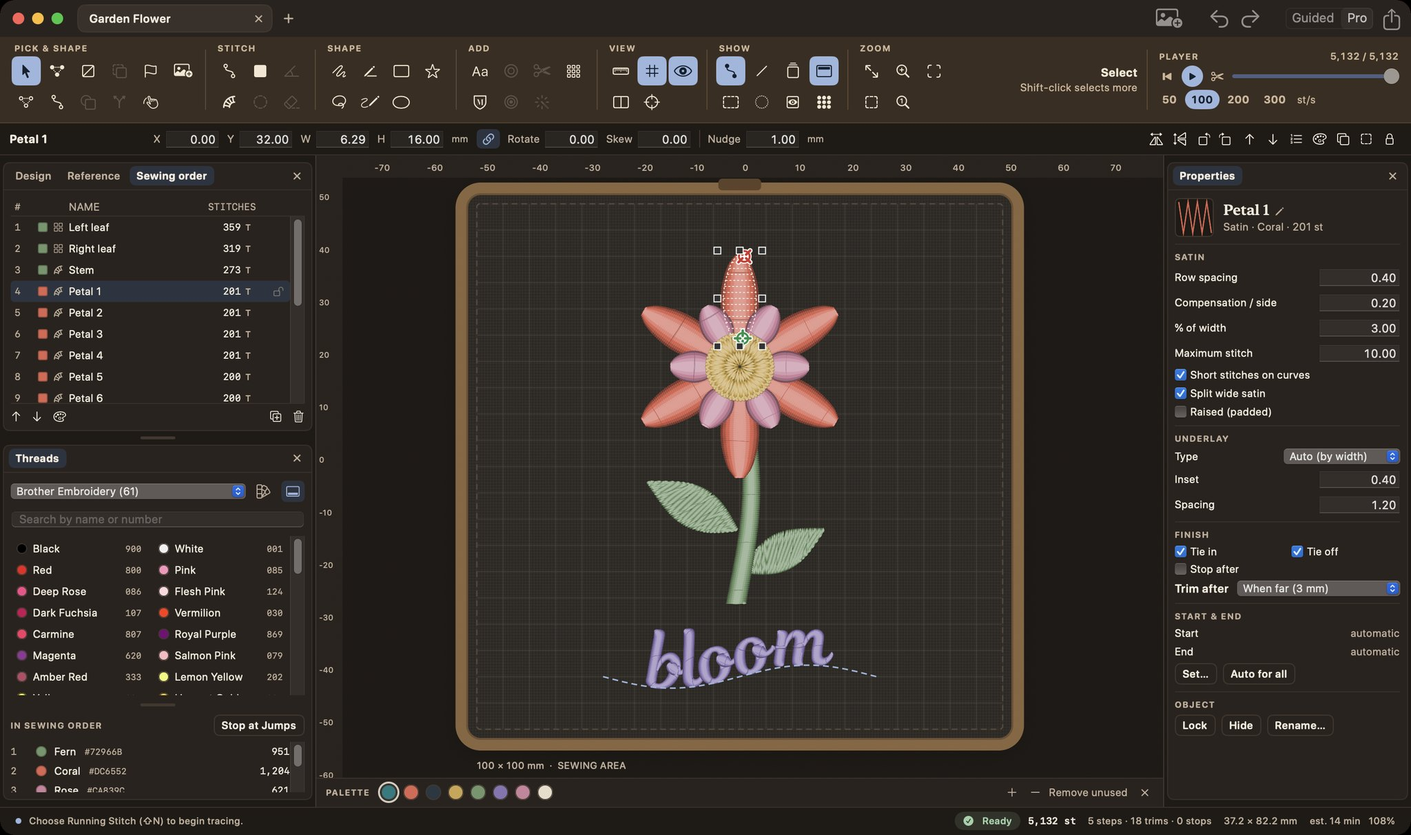
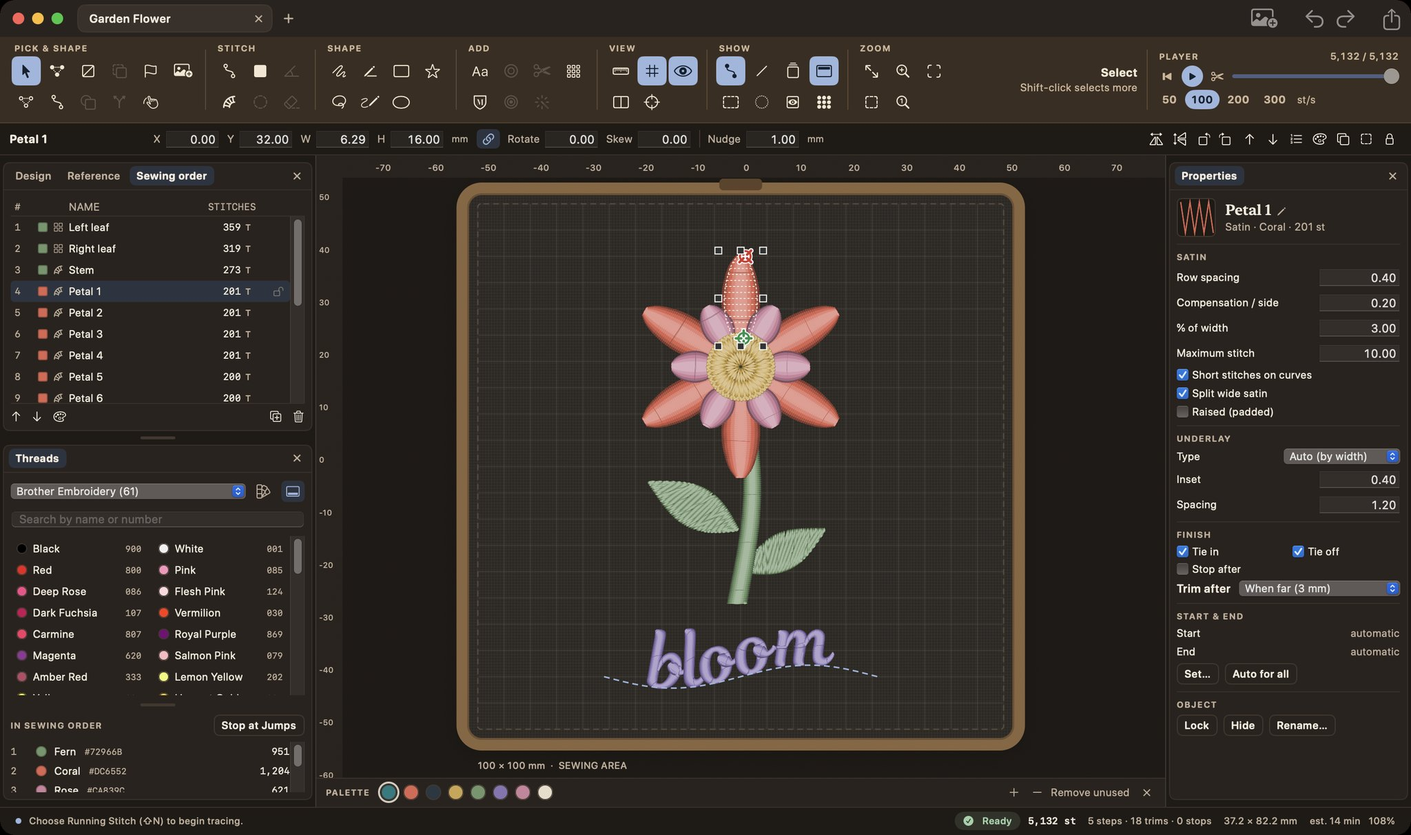
The README, user guide and website show the one layout (#125)
Guided screenshots, the website's Guided | Pro toggle and the guide's
Guided passages are gone. The Pro shots are retaken without the
toolbar switch; the README's top image is now the light Pro shot, and
the website's "Find your flow" section describes the single layout.

diff --git a/website/index.html b/website/index.html
@@ -40,10 +40,6 @@
       </div>
 
       <div class="preview-toolbar">
-        <div class="pill-group" role="group" aria-label="Main view">
-          <button type="button" class="pill-button is-active" data-mode="guided" aria-pressed="true" aria-controls="hero-comparison">Guided</button>
-          <button type="button" class="pill-button" data-mode="pro" aria-pressed="false" aria-controls="hero-comparison">Pro</button>
-        </div>
         <div class="pill-group" role="group" aria-label="Main appearance">
           <button type="button" class="pill-button is-active" data-theme="light" aria-pressed="true" aria-controls="hero-comparison">Light</button>
           <button type="button" class="pill-button" data-theme="dark" aria-pressed="false" aria-controls="hero-comparison">Dark</button>
@@ -52,15 +48,15 @@
       </div>
       <!-- The wooden hoop frame; its clamp at the top shows the current view. -->
       <div class="hoop">
-        <span class="hoop-clamp" data-preview-label>Guided · Light</span>
+        <span class="hoop-clamp" data-preview-label>Light</span>
         <div class="preview-surface" id="hero-comparison" data-preview-surface tabindex="-1" role="group" aria-label="App screenshot. With Inspect stitches enabled, move or tap to magnify; arrow keys move the lens.">
-          <img data-light src="assets/screenshot-guided-light.jpg" width="2048" height="1212" fetchpriority="high" alt="OpenHoop’s Guided view in light mode showing the Garden Flower design.">
-          <img data-dark hidden src="assets/screenshot-guided-dark.jpg" width="2048" height="1212" loading="lazy" alt="The same Garden Flower design in Guided view, dark mode.">
+          <img data-light src="assets/screenshot-pro-light.jpg" width="2048" height="1212" fetchpriority="high" alt="OpenHoop in light mode showing the Garden Flower design.">
+          <img data-dark hidden src="assets/screenshot-pro-dark.jpg" width="2048" height="1212" loading="lazy" alt="The same Garden Flower design in dark mode.">
           <div class="stitch-lens" data-lens hidden aria-hidden="true"><div data-lens-light></div><div data-lens-dark hidden></div><span>THREAD DETAIL</span></div>
         </div>
       </div>
-      <p class="preview-hint" data-hint aria-live="polite">Choose your view and lighting.</p>
-      <div class="image-caption"><span data-preview-caption aria-live="polite">Guided · Light mode · Garden Flower</span><a href="#stitch-preview">Watch it stitch <span aria-hidden="true">↓</span></a></div>
+      <p class="preview-hint" data-hint aria-live="polite">Choose your lighting.</p>
+      <div class="image-caption"><span data-preview-caption aria-live="polite">Light mode · Garden Flower</span><a href="#stitch-preview">Watch it stitch <span aria-hidden="true">↓</span></a></div>
     </section>
 
     <section class="band band-cream" id="how-it-works" aria-labelledby="process-title">
@@ -76,11 +72,11 @@
 
     <section class="band" id="workspace" aria-labelledby="workspace-title">
       <div class="wrap split">
-        <div class="section-heading"><p class="kicker">A workspace that grows with you</p><h2 id="workspace-title">Find your flow.</h2><p>Start with clearly labeled tools and helpful explanations. Switch to Pro when you want more controls close at hand.</p></div>
+        <div class="section-heading"><p class="kicker">A workspace that grows with you</p><h2 id="workspace-title">Find your flow.</h2><p>Every tool and setting sits in plain view, and resting the pointer on any of them explains what it does.</p></div>
         <div class="workspace-list">
-          <article><span class="dot dot-gold" aria-hidden="true">G</span><div><h3>Start with Guided.</h3><p>Clearly labeled tools and plain-English settings help you find your way from artwork to stitches.</p></div></article>
-          <article><span class="dot dot-tomato" aria-hidden="true">P</span><div><h3>Go deeper with Pro.</h3><p>Keep more controls close at hand as you shape curves, set stitch angles, and fine-tune individual needle points.</p></div></article>
-          <article><span class="dot dot-sage" aria-hidden="true">✦</span><div><h3>Make yourself at home.</h3><p>Arrange your panels, customize shortcuts, and switch between Guided and Pro whenever you like.</p></div></article>
+          <article><span class="dot dot-gold" aria-hidden="true">T</span><div><h3>Every tool in reach.</h3><p>Each tool has its own button, with its name and shortcut a hover away, so nothing hides in a menu.</p></div></article>
+          <article><span class="dot dot-tomato" aria-hidden="true">P</span><div><h3>Place it exactly.</h3><p>Type a position, size or angle in the precision bar, and watch stitch counts and sewing time update as you work.</p></div></article>
+          <article><span class="dot dot-sage" aria-hidden="true">✦</span><div><h3>Make yourself at home.</h3><p>Arrange your panels, put the tools across the top or down the side, and customize every shortcut.</p></div></article>
         </div>
       </div>
     </section>

diff --git a/website/script.js b/website/script.js
@@ -1,6 +1,6 @@
 const clamp = (value, min, max) => Math.min(max, Math.max(min, value));
 
-// Workspace and appearance toggles preserve each other’s selection.
+// The light/dark toggle and the stitch lens.
 document.querySelectorAll('[data-preview]').forEach(preview => {
   const surface = preview.querySelector('[data-preview-surface]');
   const light = preview.querySelector('[data-light]');
@@ -11,10 +11,8 @@ document.querySelectorAll('[data-preview]').forEach(preview => {
   const lensDark = preview.querySelector('[data-lens-dark]');
   const hint = preview.querySelector('[data-hint]');
   let theme = 'light';
-  let workspace = 'guided';
   let inspecting = false;
   let point = { x: .42, y: .35 };
-  let modeRequest = 0;
 
   function positionLens() {
     const rect = surface.getBoundingClientRect();
@@ -31,10 +29,9 @@ document.querySelectorAll('[data-preview]').forEach(preview => {
     }
   }
   function updateLabels() {
-    const view = workspace === 'pro' ? 'Pro' : 'Guided';
     const appearance = theme === 'dark' ? 'Dark' : 'Light';
-    preview.querySelector('[data-preview-label]').textContent = `${view} · ${appearance}`;
-    preview.querySelector('[data-preview-caption]').textContent = `${view} · ${appearance} mode · Garden Flower`;
+    preview.querySelector('[data-preview-label]').textContent = appearance;
+    preview.querySelector('[data-preview-caption]').textContent = `${appearance} mode · Garden Flower`;
   }
   function setTheme(value) {
     theme = value;
@@ -54,39 +51,11 @@ document.querySelectorAll('[data-preview]').forEach(preview => {
     surface.classList.toggle('is-inspecting', enabled);
     lens.hidden = !enabled;
     surface.tabIndex = enabled ? 0 : -1;
-    hint.textContent = enabled ? 'Move or tap to explore. Arrow keys move the lens.' : 'Choose your view and lighting.';
+    hint.textContent = enabled ? 'Move or tap to explore. Arrow keys move the lens.' : 'Choose your lighting.';
     positionLens();
-  }
-  async function setMode(mode, button) {
-    const request = ++modeRequest;
-    const urls = ['light', 'dark'].map(theme => `assets/screenshot-${mode}-${theme}.jpg`);
-    surface.setAttribute('aria-busy', 'true');
-    try {
-      // Decode the pair before swapping, so mismatched workspaces never flash.
-      await Promise.all(urls.map(src => { const img = new Image(); img.src = src; return img.decode(); }));
-      if (request !== modeRequest) return;
-      [light.src, dark.src] = urls;
-      lensLight.style.backgroundImage = `url("${urls[0]}")`;
-      lensDark.style.backgroundImage = `url("${urls[1]}")`;
-      const name = mode === 'pro' ? 'Pro' : 'Guided';
-      light.alt = `OpenHoop’s ${name} view in light mode showing the Garden Flower design.`;
-      dark.alt = `The same Garden Flower design in ${name} view, dark mode.`;
-      workspace = mode;
-      updateLabels();
-      preview.querySelectorAll('[data-mode]').forEach(option => {
-        option.classList.toggle('is-active', option === button);
-        option.setAttribute('aria-pressed', String(option === button));
-      });
-      positionLens();
-    } catch {
-      hint.textContent = 'That view could not load. Please try again.';
-    } finally {
-      if (request === modeRequest) surface.removeAttribute('aria-busy');
-    }
   }
   lensLight.style.backgroundImage = `url("${light.getAttribute('src')}")`;
   lensDark.style.backgroundImage = `url("${dark.getAttribute('src')}")`;
-  preview.querySelectorAll('[data-mode]').forEach(button => button.addEventListener('click', () => setMode(button.dataset.mode, button)));
   inspect.addEventListener('click', () => setInspect(!inspecting));
   preview.querySelectorAll('[data-theme]').forEach(button => button.addEventListener('click', () => setTheme(button.dataset.theme)));
   function interact(event) {

diff --git a/website/styles.css b/website/styles.css
@@ -127,7 +127,7 @@ h1 em { font-style: normal; color: var(--gold); }
 .hero-copy .actions { justify-content: center; margin-top: 36px; }
 .fine-print { margin-top: 20px; font-size: 15px; color: var(--muted); }
 
-/* Guided/Pro and Light/Dark pill toggles */
+/* Light/Dark pill toggle */
 .preview-toolbar { display: flex; flex-wrap: wrap; gap: 12px 16px; justify-content: center; align-items: center; margin: 64px 0 40px; }
 .pill-group { display: flex; gap: 4px; padding: 5px; background: var(--denim-light); border-radius: 999px; }
 .pill-button {

diff --git a/docs/USER-GUIDE.md b/docs/USER-GUIDE.md
@@ -11,14 +11,11 @@ Open `dist/OpenHoop.app` after building it. To look around first, choose **File 
 > OpenHoop runs on Apple Silicon Macs with macOS 14 or later, and its designs have been sewn on a Brother SE600. Every machine, fabric and stabilizer behaves a little differently, so test-sew a new design on scrap fabric first.
 
 **The window:**
-- **Tool strip** (under the toolbar): tools grouped as *Pick & shape*, *Stitch*, *Add* and *View*, each with its key. Some tools share a slot (Fill and Hole; Text, Satin border, Appliqué and Auto-digitize); click the slot's arrow to pick one. Tools that can't be used yet are dimmed.
+- **Tool strip** (under the toolbar): every tool as its own button on a walnut band, two rows across the top, in groups (*Pick & shape*, *Stitch*, *Shape*, *Add*, *View*, *Show*, *Zoom*). Rest the pointer on one for its name and key. Tools that can't be used yet are dimmed. **Settings › Tools & player › Tools** moves them to a rail down the left side instead.
+- **Precision bar** (under the tools): the selection's exact position, size, rotation and skew, the arrow keys' nudge distance, and one-click arrange buttons.
 - **Canvas:** the hoop with your design. Scroll to pan, pinch or Option-scroll to zoom, **⌥0** to fit the hoop. More ways to look: [Viewing and measuring](#viewing-and-measuring).
 - **Panels:** Sewing order, Properties, Design (fabric and hoop), Reference image and Threads. The stitch player sits at the right end of the tool strip.
 - **Status bar:** messages, and a **Ready to save** check that turns orange with a short reason when something needs fixing before export.
-
-**Guided and Pro views.** Same features, two layouts; switch with **⌥⌘P** or the **Guided | Pro** toggle in the toolbar. Pro shows every tool as its own button on a walnut band, two rows across the top; **Settings › Tools & player › Tools** moves them to a rail down the left side instead.
-- **Guided** (the default) shows the everyday settings with a plain-English line under each and folds the rest under **More settings**.
-- **Pro** shows everything at once: every tool in one row, a precision bar for exact position, size and rotation, compact Properties, a sewing-order table with stitch counts, and live stats in the status bar. Explanations become tooltips.
 
 **Not sure what something does?** Rest the pointer on any tool, button or setting: a tooltip says what it does, with its key.
 
@@ -64,7 +61,7 @@ Smooth, shiny columns for borders, outlines and lettering. Two ways to make one:
 - **Make it longer later:** select the column, choose **⇧A**, and click one of the two points at either end. Drawing picks up from there: click more pairs and press Return, and they join the same column (Esc leaves it as it was). Running lines work the same way with **⇧N**: click the first or last point.
 - **From a center line (⇧I):** draw a running line down the middle, set **Satin width** in Properties (0.8–10 mm), then press **⇧I** (or F6) or **Make satin column**. Sharp turns are rounded just enough for the satin to turn. Turns too tight for the width are explained and the line is left alone.
 
-Settings: **Row spacing**, **Compensation** per side (extra width because thread pulls the fabric in), **Compensation % of width** (More settings; in Pro, **% of width**), and **Maximum stitch**. The percentage adds a share of each stitch's own width on top, so wide parts of a satin get more: new satins start at 3%, so a 2 mm part gets 0.26 mm per side and a 6 mm part 0.38 mm. It's a starting value to tune after a test sew-out. Two helpers, on for new satins:
+Settings: **Row spacing**, **Compensation** per side (extra width because thread pulls the fabric in), **Compensation % of width** (**% of width** in Properties), and **Maximum stitch**. The percentage adds a share of each stitch's own width on top, so wide parts of a satin get more: new satins start at 3%, so a 2 mm part gets 0.26 mm per side and a 6 mm part 0.38 mm. It's a starting value to tune after a test sew-out. Two helpers, on for new satins:
 - **Short stitches on curves:** on the inside of a curve, every other stitch stops short so the thread doesn't pile up.
 - **Split wide satin:** stitches longer than the maximum are split into shorter, staggered ones instead of the column being refused. Maximum stitch can be as long as you like, but stitches over 12 mm get a warning: they can snag, and machine files split them all at the same place.
 - **Raised (padded):** lanes of padding stitches are sewn along the column first, so the satin stands up off the fabric for a 3D look. Best on columns 3 mm and wider.
@@ -129,7 +126,7 @@ While dragging a shape, hold **⌘** to keep it even (a square, circle or regula
 
 Fills with **Edge + sparse** underlay lay their sparse rows at the fill angle. For contour, radial and guided fills (and tatami or satin steered by stitch angle lines), whose own rows don't follow that angle, it shows as **Underlay angle** instead, and turns only the underlay. **Underlay spacing** shows only where there are underlay rows to space: not for an edge run on its own.
 
-Satins with a chosen (not Auto) underlay can have a **second underlay** (More settings in Guided, the Underlay section in Pro). It sews after the first, back along the column, so the top stitches start where it ends. Common pairs are center run then zigzag, or edge run then zigzag for wide satins. Both layers use the same inset and spacing. Turning underlay off (or picking the same style for the first) clears the second.
+Satins with a chosen (not Auto) underlay can have a **second underlay** (in the Underlay section of Properties). It sews after the first, back along the column, so the top stitches start where it ends. Common pairs are center run then zigzag, or edge run then zigzag for wide satins. Both layers use the same inset and spacing. Turning underlay off (or picking the same style for the first) clears the second.
 
 **Finishing:** **Tie in** and **Tie off** add tiny locking stitches, **Trim after** cuts the thread before the next part, and **Stop after** pauses the machine. Trim after is **When far** to begin with: the thread is cut only when the next part in the same thread starts at least 3 mm away (change the distance under **Trims** in the design's Properties, with nothing selected). Closer than that, one plain stitch carries the thread across, with no tie-off or tie-in. Choose **Always** to cut however close the next part is, or **Off** to never cut. A color change or a stop always cuts.
 
@@ -142,7 +139,7 @@ Satins with a chosen (not Auto) underlay can have a **second underlay** (More se
 - **Stitch errors:** if an object can't be sewn, it's outlined in red and the status bar says why. Everything else keeps showing up-to-date stitches, but export waits until the error is fixed.
 - **Arrange:** mirror, rotate, resize, duplicate (**⌘D**), sew earlier or later, hide and lock (**K**). Hidden objects still sew; hiding only declutters the canvas.
 - **Sequence by selection order:** Shift-click objects on the canvas (or ⌘-click them in the sewing order list) in the order they should sew, then choose **Sew in click order** (Properties, with several selected), the numbered-list button in Pro's precision bar, or **Edit → Sequence by Selection Order**. They sew one after another in that order, starting where the earliest of them sewed; everything else keeps its place.
-- **Skew:** type an angle in **Skew** (Pro's precision bar) or **Skew by °** (Guided, under More settings) and press Return to lean the selection sideways, like italics: positive leans the top to the right. Fill rows lean along.
+- **Skew:** type an angle in **Skew** in the precision bar and press Return to lean the selection sideways, like italics: positive leans the top to the right. Fill rows lean along.
 - **Align and space:** with several objects selected, the row of small buttons in Properties lines them up by their left edges, centers or right edges, tops, centers or bottoms, or both centers. They line up with **the object you select last**, which stays put. **Space evenly across / down** (three or more) leaves the outer two in place and makes the gaps between neighbours equal. A group moves as one block, and locked objects stay put. These are in the Edit menu too.
 - **Group (⌘G / ⇧⌘G):** groups move, turn, resize and recolor together. Option-click picks one member.
 - **Rename:** double-click an object's name in the sewing order (or right-click it and choose **Rename**), or click its name (with the ✎) at the top of Properties, and type a new one. Return keeps it, Esc keeps the old name, and Undo puts it back. **Edit › Rename Object…** does the same. Until you rename it, an object is called after its stitch and a number, and the name follows the stitch: change Zigzag 2's Line style to Ripple and it becomes Ripple 2. A name you've typed stays as it is. Lettering shows its text instead of a name; change the text in Properties.
@@ -227,7 +224,7 @@ Add **ornaments** either side (swirls in bean stitch, leaves or dots, drawn for 
 - **Basting box:** long running stitches around the design, sewn before everything else in the design's first thread (so the machine doesn't stop), that hold the fabric to the stabilizer. Pull them out after sewing. Set how far outside the design it runs with **Margin** (5 mm to start). It stays inside the hoop: on a rectangular hoop it's cut back to the edge, and on an oval one the margin shrinks until the corners fit.
 - **Laydown (⌥⇧L, or Add laydown…):** a light, open fill under the whole design (or the selection) that flattens the pile of towels, fleece and velvet so stitches don't sink in. The dialog sets how far it reaches past the edge, row spacing (measured across two rows, like tatami: 4 mm lays rows 2 mm apart), stitch length, angle, one layer or two crossed ones, and its thread (one matching the fabric hides best), with a preview. Shapes close together share one laydown, which also covers the gaps between them. It's added as a group that sews before what it lies under; change its spacing or angle in Properties afterwards like any fill.
 
-**Thread colors.** The Threads panel shows a thread library: pick a chart from its menu (the basic colors, a machine palette, a thread brand such as Isacord or Madeira, or a chart you imported) and every thread in it appears as a swatch, with a search box for a name or number. Click a thread to set the current thread; anything selected changes to it too. The chart you pick here is the one **Choose Thread from Chart** opens with. In the Pro view the panel also lists the design's threads in sewing order underneath; drag the bar above that list up or down to give more room to the list or to the library, and double-click the bar to let the list fit its threads again.
+**Thread colors.** The Threads panel shows a thread library: pick a chart from its menu (the basic colors, a machine palette, a thread brand such as Isacord or Madeira, or a chart you imported) and every thread in it appears as a swatch, with a search box for a name or number. Click a thread to set the current thread; anything selected changes to it too. The chart you pick here is the one **Choose Thread from Chart** opens with. The panel also lists the design's threads in sewing order underneath; drag the bar above that list up or down to give more room to the list or to the library, and double-click the bar to let the list fit its threads again.
 
 **The design's palette.** Each design keeps a short row of threads, saved with it, in a strip under the canvas. A new design starts with the eight basic colors. Clicking a thread anywhere (the library, the chart dialog or the palette itself) adds it to the palette if it isn't there yet. **+** adds the current thread, **−** takes it out, and **Remove unused** clears every thread no object sews in; a thread objects still sew in stays (hover over it to see how many objects use it). The button beside the chart menu in the Threads panel, or **View › Palette Under Canvas**, docks the palette at the top of the Threads panel instead, and back.
 
@@ -282,7 +279,7 @@ Multi-hooped projects are saved as file version 7, which OpenHoop 0.6.8 and earl
 
 **Thread View.** Press **T** (or the Thread View button under View) to switch between Thread View and the stitch view. Thread View draws each stitch as its own strand of thread, 0.45 mm wide, dark where it dives into the cloth and bright in the middle, so you see roughly how the design will sew out; travel moves between pieces and needle points are hidden. The stitch view draws thin lines and shows travel moves dashed, which is handier for checking the sewing path. The app remembers which one you used last.
 
-**Stitch player.** The player sits at the right end of the tool strip, under the caption **Player** (at the bottom of the tool rail when Pro's tools are down the left side). Press **Space** or **⇧R** (or ▶) to watch the design sew, and **Home** (or ⏮) to go back to the start; drag the slider to step through it. **.** (period) shows the needle points. The speed buttons set how many stitches it sews per second (12, 120, 500 and 2,000 to start; a machine sews about 12), and you can switch between them while it plays. Change the four speeds in **Settings › Tools & player**. For a one-off speed, right-click the buttons and choose **Custom Speed…** (1–5,000). Each time the app opens, the player starts on the second button.
+**Stitch player.** The player sits at the right end of the tool strip, under the caption **Player** (at the bottom of the tool rail when the tools are down the left side). Press **Space** or **⇧R** (or ▶) to watch the design sew, and **Home** (or ⏮) to go back to the start; drag the slider to step through it. **.** (period) shows the needle points. The speed buttons set how many stitches it sews per second (12, 120, 500 and 2,000 to start; a machine sews about 12), and you can switch between them while it plays. Change the four speeds in **Settings › Tools & player**. For a one-off speed, right-click the buttons and choose **Custom Speed…** (1–5,000). Each time the app opens, the player starts on the second button.
 
 **Density map.** Turn on **View → Density Map** (or **Density** in the Show list) to color the spots that lay too much thread, in 1 mm squares. They show in both views and update as you edit.
 - **Yellow** is heavy: more than about 2 layers of fill (for example, two satins crossing). One layer is an ordinary tatami fill at 0.40 mm.
@@ -321,7 +318,6 @@ Print it, or choose **PDF** in the print dialog to save it.
 **Panels** work like Photoshop's:
 - Drag a panel's tab onto another panel to join it, to the top or bottom of a group to stack it, onto the canvas to float it, or to the canvas edge to dock it.
 - The **Window** menu shows or hides each panel, and saves, recalls and resets layouts.
-- Guided and Pro each keep their own layout.
 
 **Tabs:** designs open as tabs in the window's title bar; **⌘N** or **+** starts a new one. An orange dot marks unsaved changes. **⌘W** or the tab's **×** closes a design (asking to save first); **⌃⇥** and **⌃⇧⇥** (or **⇧⌘]** and **⇧⌘[**) move between tabs. Closing the window closes each design in turn.
 
@@ -376,7 +372,7 @@ These are the starting keys; every one can be changed. Tools on a function key a
 | Start & end points | ⌥E | Show needle points | . (period) |
 | Move & size artwork | ⌥D | Show / hide reference image | D |
 | Auto-digitize | ⌥M | Play / pause stitches, back to start | Space or ⇧R, Home |
-| Choose thread from chart | ⌥T | Pro view / Settings | ⌥⌘P / ⌘, |
+| Choose thread from chart | ⌥T | Settings | ⌘, |
 | Insert / delete node | ⌥⇧I / ⌫ or ⇧⌫ | Finish / cancel path | Return / Esc |
 | Open / closed shape | ⌥O / ⌥S | Freehand open / closed shape | ⌥⇧O / ⌥⇧S |
 | Rectangle / ellipse / basic shapes | ⌥R / ⌥J / ⌥B | | |

diff --git a/README.md b/README.md
@@ -7,7 +7,7 @@ Digitize logos, patches and lettering into stitch files for your embroidery mach
 
 <p align="center"><a href="https://openhoop.app"><strong>openhoop.app</strong></a> · <a href="https://github.com/EvenDog/openhoop/releases/latest">Download for Mac</a> · <a href="docs/USER-GUIDE.md">User guide</a></p>
 
-![OpenHoop's Guided view: a flower design stitched in the hoop, drawn as real thread, with the sewing order, threads, palette, fabric settings and stitch player around it](docs/screenshot-guided.jpg)
+![OpenHoop: a flower design stitched in the hoop, drawn as real thread, with two rows of tools, a precision bar for the selected petal, the sewing order as a table with stitch counts, threads in sewing order, the petal's satin settings, and stats along the bottom](docs/screenshot-pro.jpg)
 
 > **In active development.** OpenHoop works end to end, from artwork to a machine file, and its designs have been sewn on a Brother SE600. Stitch settings keep improving from version to version. Test-stitch on scrap fabric before using a design on anything that matters.
 
@@ -25,13 +25,7 @@ Digitize logos, patches and lettering into stitch files for your embroidery mach
 - **Hoops** for Brother, Janome and Husqvarna Viking / Pfaff machines, or any custom size.
 - **Machine files**: export PES, PEC, DST, EXP, JEF, VP3 and XXX (each one read back and checked before saving), and import them too.
 - **Production worksheet** to print and keep beside the machine: thread steps, stops and an actual-size picture.
-- **Made for the Mac**: Guided and Pro views, dockable panels, copy and paste, undo, millimeters or inches, tooltips that explain every tool, and a keyboard shortcut you can change for every command.
-
-## Guided and Pro
-
-**Guided** (above) shows the everyday tools with their names and a plain-English line under each setting. **Pro** puts every tool one click away, adds a precision bar for exact position, size and rotation, and shows the sewing order as a table with stitch counts and live stats. Switch any time with **⌥⌘P**.
-
-![OpenHoop's Pro view in dark mode: two rows of tools, a precision bar for the selected petal, the sewing order as a table with stitch counts, threads in sewing order, the petal's satin settings, and stats along the bottom](docs/screenshot-pro.jpg)
+- **Made for the Mac**: every tool one click away, a precision bar for exact position, size and rotation, light and dark mode, dockable panels, copy and paste, undo, millimeters or inches, tooltips that explain every tool, and a keyboard shortcut you can change for every command.
 
 ## Download
 
